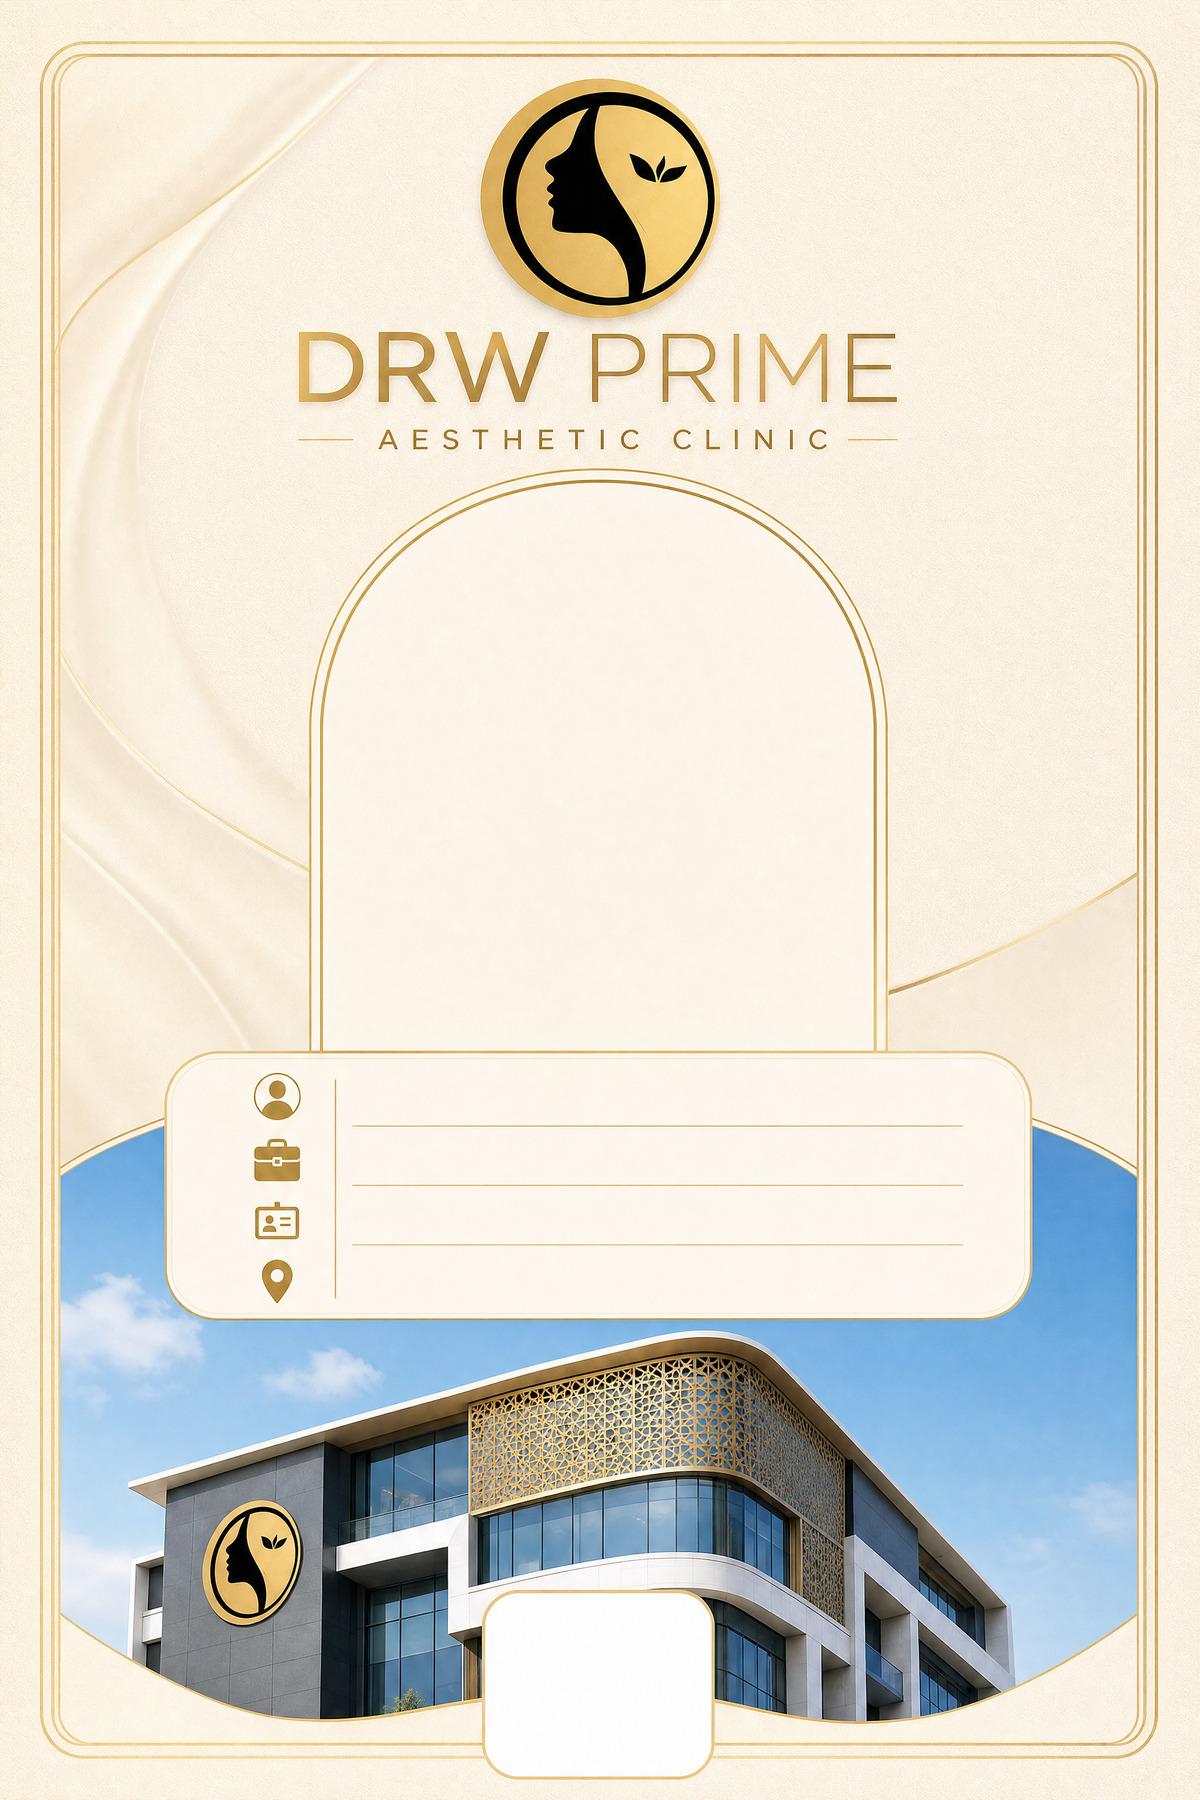
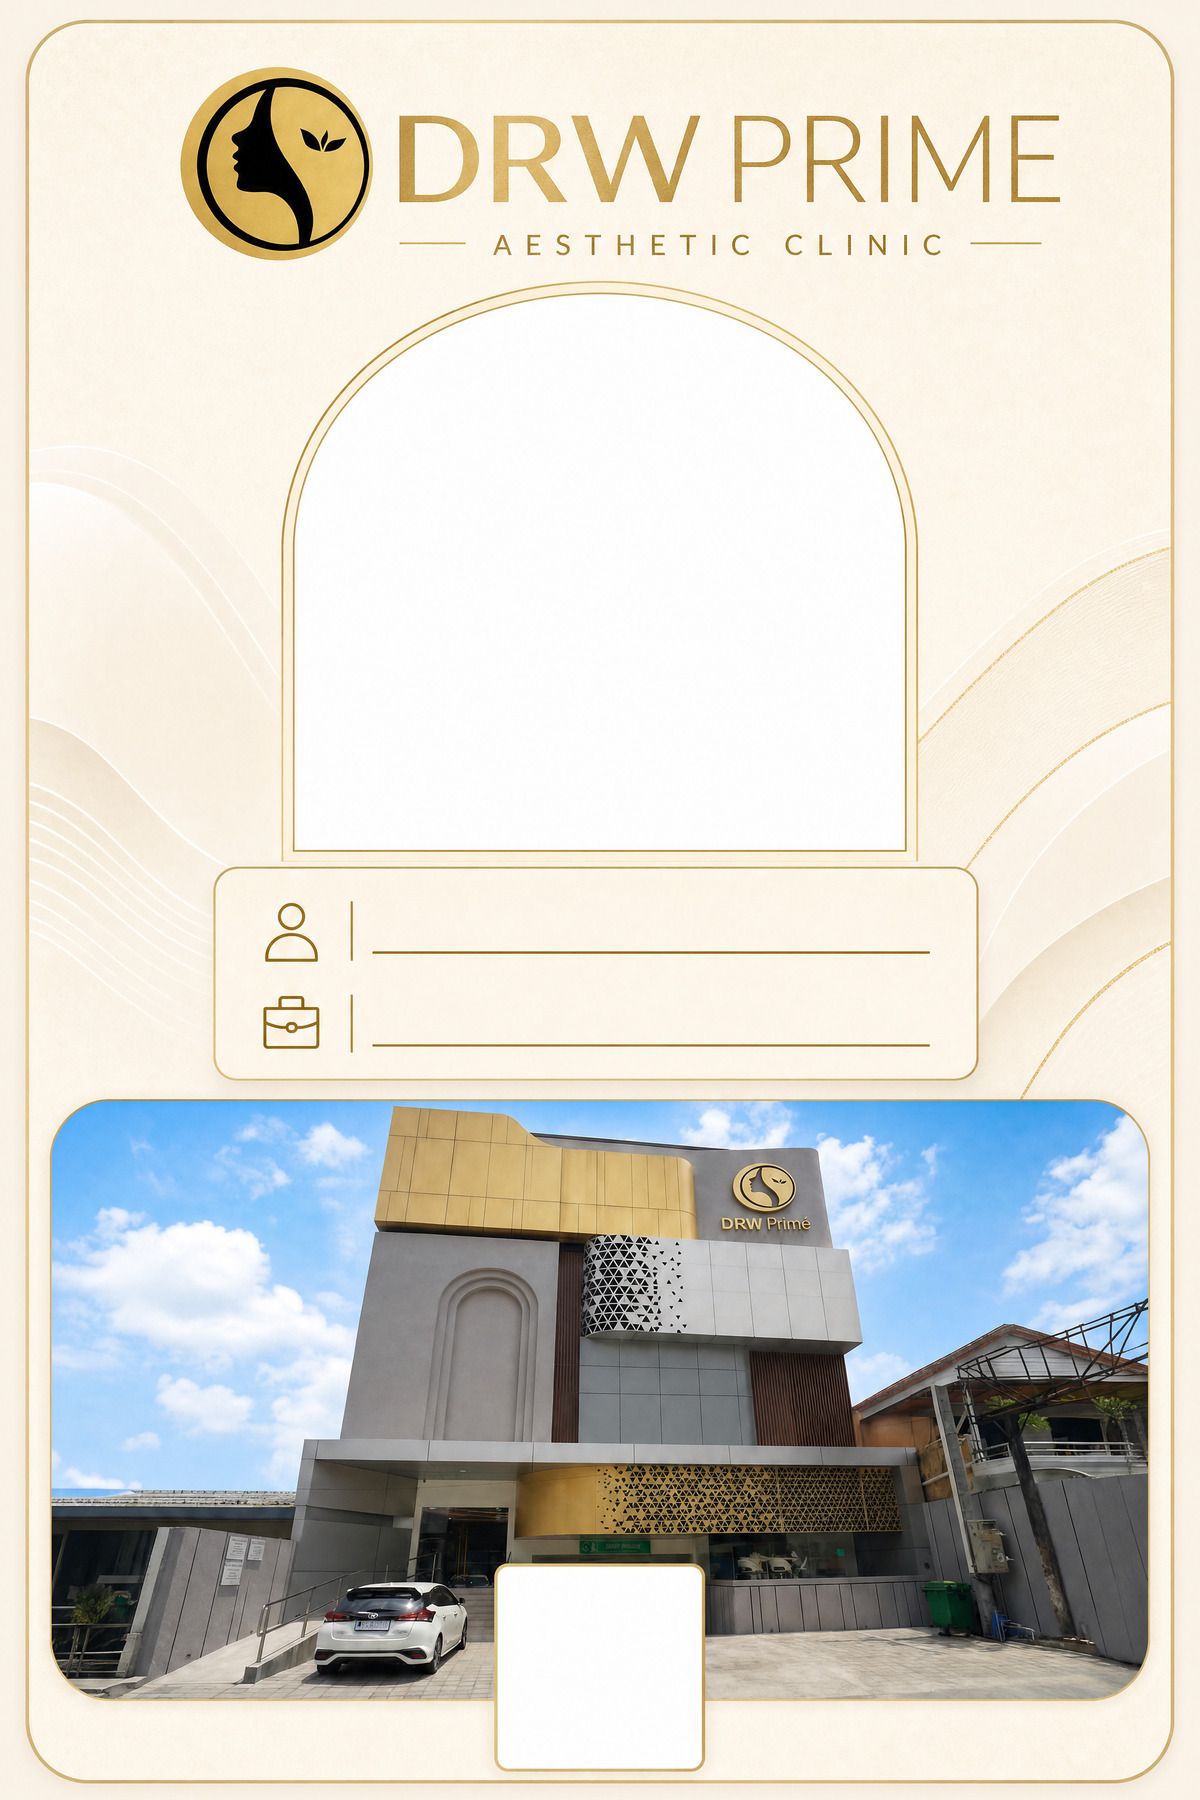
feat: refine staff id card qr layout

diff --git a/src/components/treatment-ops/StaffIdCard.tsx b/src/components/treatment-ops/StaffIdCard.tsx
@@ -13,7 +13,6 @@ const ROLE_GOLD = '#A97B2E';
 const IVORY = '#FBF7EF';
 
 const BG_URL = '/id-card-brand.jpg';
-const BUILDING_URL = '/drwprime-building.jpg';
 const LOGO_URL = '/drwprime-logo.png';
 
 type CardData = {
@@ -113,7 +112,6 @@ function drawIdCard(
   },
   qrCanvas: HTMLCanvasElement | null,
   bg: HTMLImageElement | null,
-  building: HTMLImageElement | null,
   logo: HTMLImageElement | null,
 ) {
   if (bg) {
@@ -122,38 +120,8 @@ function drawIdCard(
     drawFallbackBrand(ctx, logo);
   }
 
-  // Remove the generated building area before adding the real DRW Prime photo.
-  ctx.fillStyle = '#F5ECDB';
-  ctx.fillRect(0, 1094, CARD_W, CARD_H - 1094);
-
-  const buildingBox = { x: 43, y: 1106, width: 914, height: 342, radius: 26 };
-  if (building) {
-    ctx.save();
-    roundRectPath(ctx, buildingBox.x, buildingBox.y, buildingBox.width, buildingBox.height, buildingBox.radius);
-    ctx.clip();
-    drawCover(ctx, building, buildingBox.x, buildingBox.y, buildingBox.width, buildingBox.height, 0.18);
-    ctx.restore();
-    roundRectPath(ctx, buildingBox.x, buildingBox.y, buildingBox.width, buildingBox.height, buildingBox.radius);
-    ctx.strokeStyle = 'rgba(255,255,255,0.78)';
-    ctx.lineWidth = 3;
-    ctx.stroke();
-  }
-
-  ctx.strokeStyle = 'rgba(201,162,75,0.82)';
-  ctx.lineWidth = 3;
-  ctx.beginPath();
-  ctx.moveTo(40, 1094);
-  ctx.lineTo(40, 1462);
-  ctx.moveTo(960, 1094);
-  ctx.lineTo(960, 1462);
-  ctx.moveTo(40, 1462);
-  ctx.lineTo(400, 1462);
-  ctx.moveTo(600, 1462);
-  ctx.lineTo(960, 1462);
-  ctx.stroke();
-
   // The generated template has a large empty arch reserved for the staff portrait.
-  const photoBox = { x: 270, y: 405, width: 460, height: 470 };
+  const photoBox = { x: 246, y: 247, width: 508, height: 464 };
   ctx.save();
   archPath(ctx, photoBox.x, photoBox.y, photoBox.width, photoBox.height);
   ctx.clip();
@@ -175,20 +143,20 @@ function drawIdCard(
   ctx.lineWidth = 2;
   ctx.stroke();
 
-  // The information panel in the generated artwork provides three usable rows.
-  const infoX = 304;
-  const infoWidth = 500;
+  // The generated artwork reserves exactly two rows: name and role.
+  const infoX = 310;
+  const infoWidth = 470;
   ctx.textAlign = 'left';
   ctx.fillStyle = INK;
-  ctx.font = '700 29px Arial, Helvetica, sans-serif';
-  ctx.fillText(truncate(ctx, name, infoWidth), infoX, 948);
+  ctx.font = '700 28px Arial, Helvetica, sans-serif';
+  ctx.fillText(truncate(ctx, name, infoWidth), infoX, 798);
 
   ctx.fillStyle = ROLE_GOLD;
-  ctx.font = '600 21px Arial, Helvetica, sans-serif';
-  ctx.fillText(truncate(ctx, roleLabel, infoWidth), infoX, 997);
+  ctx.font = '600 20px Arial, Helvetica, sans-serif';
+  ctx.fillText(truncate(ctx, roleLabel, infoWidth), infoX, 877);
 
   // The template reserves the bottom white tile for the actual verification QR.
-  const chip = { x: 390, y: 1258, size: 220, radius: 28 };
+  const chip = { x: 360, y: 1195, size: 280, radius: 32 };
   roundRectPath(ctx, chip.x, chip.y, chip.size, chip.size, chip.radius);
   ctx.fillStyle = '#FFFFFF';
   ctx.fill();
@@ -215,9 +183,8 @@ export default function StaffIdCard({ badgeValue, name, roleLabel, employeeId, a
           avatar = null;
         }
       }
-      const [bg, building, logo] = await Promise.all([
+      const [bg, logo] = await Promise.all([
         loadImage(BG_URL).catch(() => null),
-        loadImage(BUILDING_URL).catch(() => null),
         loadImage(LOGO_URL).catch(() => null),
       ]);
       const canvas = document.createElement('canvas');
@@ -225,7 +192,7 @@ export default function StaffIdCard({ badgeValue, name, roleLabel, employeeId, a
       canvas.height = CARD_H;
       const ctx = canvas.getContext('2d');
       if (!ctx) throw new Error('Canvas tidak tersedia di browser ini.');
-      drawIdCard(ctx, { name, roleLabel, avatar }, qrRef.current, bg, building, logo);
+      drawIdCard(ctx, { name, roleLabel, avatar }, qrRef.current, bg, logo);
       const link = document.createElement('a');
       link.download = `ID-CARD-${employeeId || 'staff'}.png`;
       link.href = canvas.toDataURL('image/png');
@@ -243,13 +210,7 @@ export default function StaffIdCard({ badgeValue, name, roleLabel, employeeId, a
         <img src={BG_URL} alt="" className="absolute inset-0 h-full w-full object-cover" />
 
         <div className="relative aspect-[2/3] w-full">
-          <div className="absolute inset-x-0 top-[72.9%] bottom-0 z-10 bg-[#F5ECDB]" />
-
-          <div className="absolute left-[4.3%] top-[73.7%] z-20 h-[22.8%] w-[91.4%] overflow-hidden rounded-[18px] ring-1 ring-white/70">
-            <img src={BUILDING_URL} alt="Gedung DRW Prime" className="h-full w-full object-cover object-[center_18%]" />
-          </div>
-
-          <div className="absolute left-[27%] top-[27%] z-20 h-[31.3%] w-[46%] overflow-hidden rounded-[999px_999px_0_0] bg-[#FBF7EF] ring-1 ring-[#C9A24B]/80">
+          <div className="absolute left-[24.6%] top-[16.5%] z-20 h-[31%] w-[50.8%] overflow-hidden rounded-[999px_999px_0_0] bg-[#FBF7EF] ring-1 ring-[#C9A24B]/80">
             {avatarUrl ? (
               <img src={avatarUrl} alt={name} className="h-full w-full object-cover" />
             ) : (
@@ -257,12 +218,12 @@ export default function StaffIdCard({ badgeValue, name, roleLabel, employeeId, a
             )}
           </div>
 
-          <div className="absolute left-[29.5%] top-[61.9%] z-20 w-[50.5%] overflow-hidden">
+          <div className="absolute left-[31%] top-[51%] z-20 w-[47%] overflow-hidden">
             <p className="truncate font-sans text-[11px] font-bold leading-[1.35] text-[#3A2C17]">{name}</p>
             <p className="truncate text-[8px] font-semibold leading-[1.8] text-[#A97B2E]">{roleLabel}</p>
           </div>
 
-          <div className="absolute left-[39%] top-[83.87%] z-30 aspect-square w-[22%] rounded-[10px] bg-white p-[1.4%] shadow-md ring-1 ring-[#C9A24B]">
+          <div className="absolute left-[36%] top-[79.67%] z-30 aspect-square w-[28%] rounded-[12px] bg-white p-[1.4%] shadow-md ring-1 ring-[#C9A24B]">
             <QRCodeCanvas ref={qrRef} value={badgeValue} size={170} level="H" style={{ width: '100%', height: '100%', display: 'block' }} />
           </div>
         </div>
